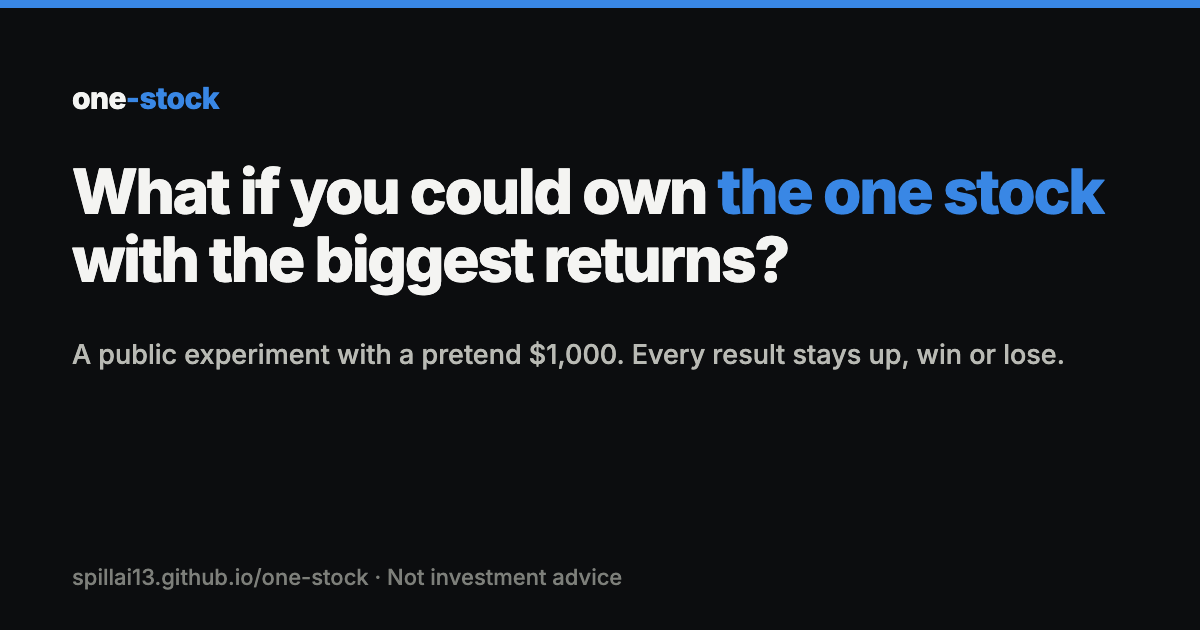
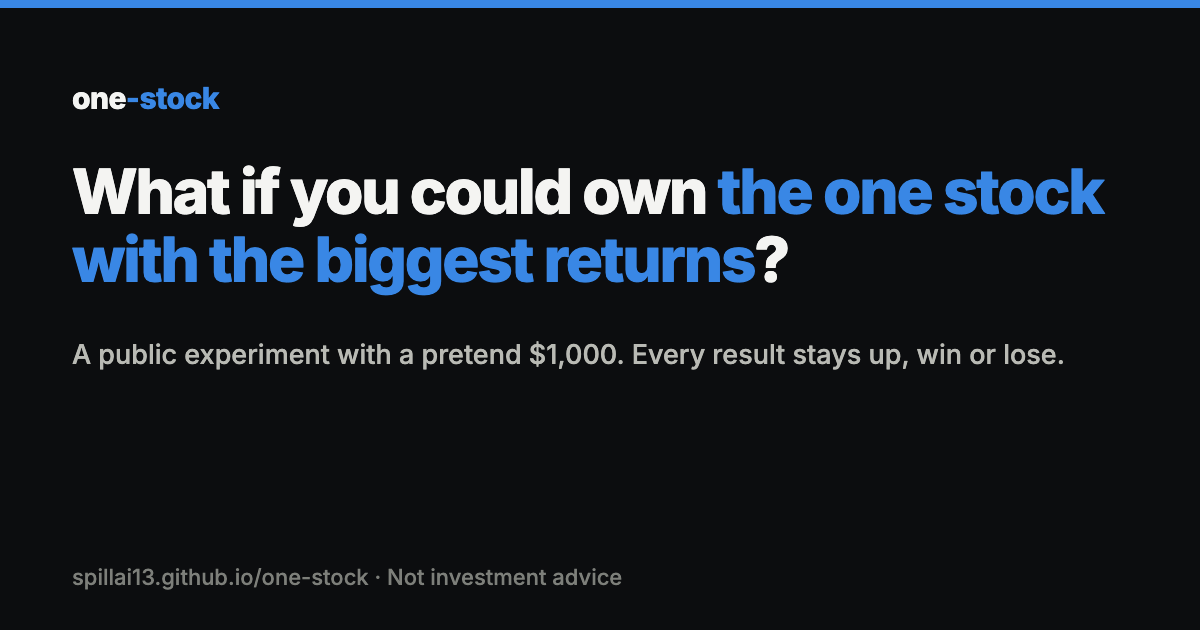
publish: 2026-10-05

Changed region(s): [[0.0617, 0.3619, 0.6475, 0.4825]]

diff --git a/demo.html b/demo.html
@@ -194,7 +194,7 @@ footer ul { padding-left: 18px; margin: 10px 0 0; } footer li { margin: 4px 0; }
   <!-- 1. The idea, in five seconds -->
   <div class="hero">
     <div class="eyebrow" id="eyebrow">A public experiment</div>
-    <h1 id="headline">What if you could own <span class="accent">the one stock</span> with the biggest returns?</h1>
+    <h1 id="headline">What if you could own <span class="accent">the one stock with the biggest returns</span>?</h1>
     <p class="lede" id="lede">This is a public experiment to see if a computer can find it. Every market day, it
       tests dozens of strategies against the stock market, and all the money goes to one winning stock:
       its best shot at the most growth in the least time.
@@ -440,7 +440,7 @@ function demoMode() {
     morning from ${fmtDate(DEMO.start)} to ${fmtDate(DEMO.end)}, seeing only what was known by then: the
     research results from the evening before, prices up to the previous close. Nothing here was called in advance,
     and the line is drawn dashed for that reason. <a href="index.html">The live record is here.</a></p>`;
-  $("headline").innerHTML = 'What if you could own <span class="accent">the one stock</span> with the biggest returns?';
+  $("headline").innerHTML = 'What if you could own <span class="accent">the one stock with the biggest returns</span>?';
   $("curve-label").textContent = "Growth of $1,000, replayed from";
   $("cards-title").textContent = "Each call, as the replay made it";
   $("cards-sub").textContent = "What the rules could see at 10:00 on each past morning, and what happened next.";

diff --git a/index.html b/index.html
@@ -194,7 +194,7 @@ footer ul { padding-left: 18px; margin: 10px 0 0; } footer li { margin: 4px 0; }
   <!-- 1. The idea, in five seconds -->
   <div class="hero">
     <div class="eyebrow" id="eyebrow">A public experiment</div>
-    <h1 id="headline">What if you could own <span class="accent">the one stock</span> with the biggest returns?</h1>
+    <h1 id="headline">What if you could own <span class="accent">the one stock with the biggest returns</span>?</h1>
     <p class="lede" id="lede">This is a public experiment to see if a computer can find it. Every market day, it
       tests dozens of strategies against the stock market, and all the money goes to one winning stock:
       its best shot at the most growth in the least time.
@@ -440,7 +440,7 @@ function demoMode() {
     morning from ${fmtDate(DEMO.start)} to ${fmtDate(DEMO.end)}, seeing only what was known by then: the
     research results from the evening before, prices up to the previous close. Nothing here was called in advance,
     and the line is drawn dashed for that reason. <a href="index.html">The live record is here.</a></p>`;
-  $("headline").innerHTML = 'What if you could own <span class="accent">the one stock</span> with the biggest returns?';
+  $("headline").innerHTML = 'What if you could own <span class="accent">the one stock with the biggest returns</span>?';
   $("curve-label").textContent = "Growth of $1,000, replayed from";
   $("cards-title").textContent = "Each call, as the replay made it";
   $("cards-sub").textContent = "What the rules could see at 10:00 on each past morning, and what happened next.";
